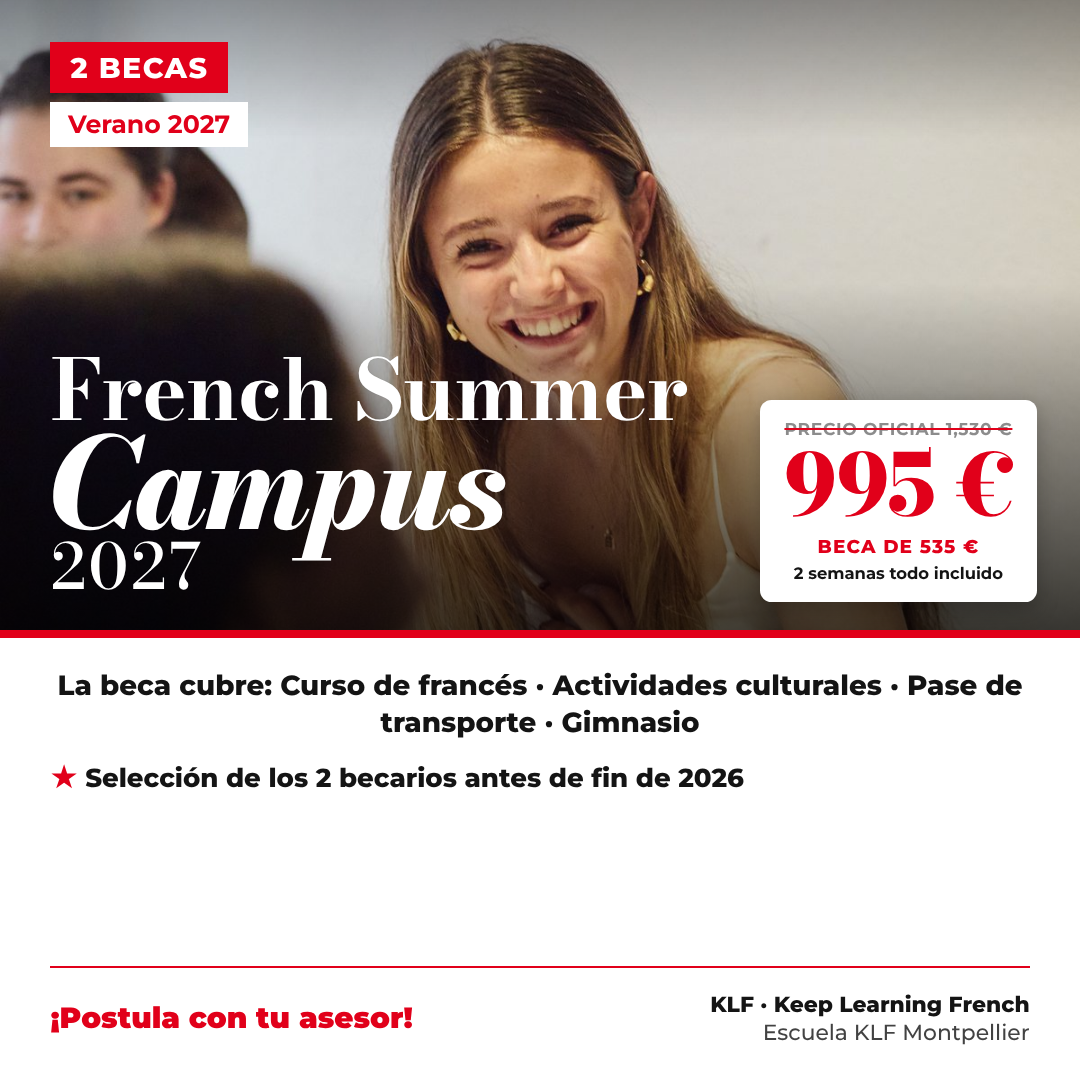
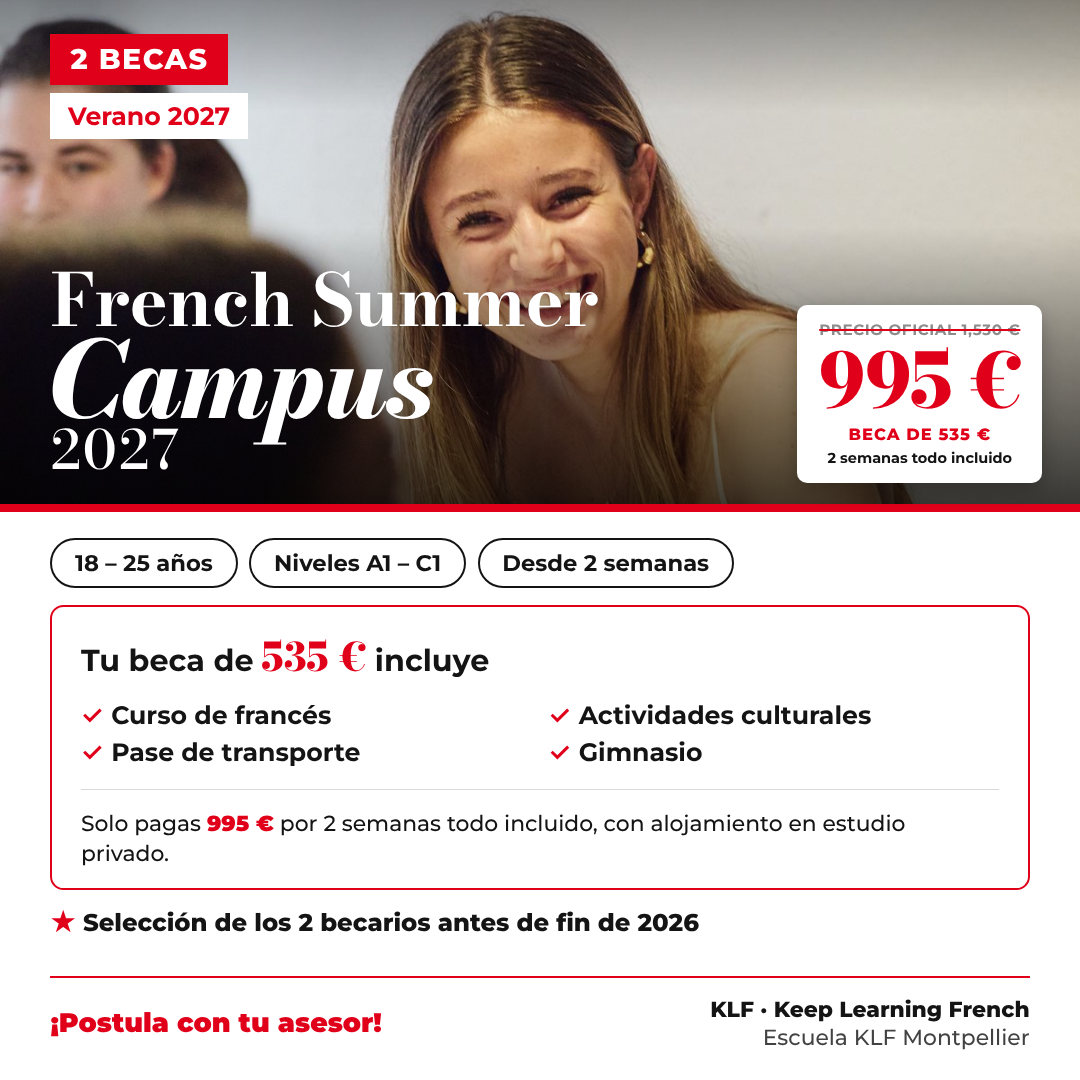
Kit French Summer Campus : photo aqueduc (foto-4) et format 1:1 enrichi
Claude-Session: https://claude.ai/code/session_01NRurtX7ks675ybybqDqttP

diff --git a/marketing/french-summer-campus-2027/styles.css b/marketing/french-summer-campus-2027/styles.css
@@ -199,3 +199,28 @@ body { font-family: "Montserrat", sans-serif; color: var(--ink); -webkit-font-sm
 
 /* Lisibilité : Bodoni en optique "texte" (pleins/déliés moins contrastés, déliés plus épais) */
 .title, .promo-new, .price-num, .card-h, .beca-head b, .gal-title { font-optical-sizing: none; font-variation-settings: "opsz" 11; }
+
+/* Carré 1:1 : photo plus courte, panneau d'infos complet */
+.square .ph { height: 61em; }
+.square .t1 { font-size: 8.6em; } .square .t2 { font-size: 12.6em; } .square .t3 { font-size: 6.4em; }
+.square .ph-bottom { bottom: 3.4em; }
+.square .tags { top: 4em; }
+.square .promo { top: auto; bottom: 3.4em; font-size: .75em; }
+.square .panel { gap: 2em; padding: 3em 6em 3.4em; }
+.square .chips span { font-size: 2.7em; }
+.square .items.compact { gap: 1.6em 3em; }
+.square .items.compact .ico-wrap { width: 6em; height: 6em; }
+.square .items.compact .ico { width: 3.1em; height: 3.1em; }
+.square .items.compact .it-txt b { font-size: 2.9em; }
+.square .price { padding: 1.8em 3.6em; }
+.square .price-num { font-size: 8.4em; }
+.square .price-label { font-size: 3em; }
+.square .beca-box { padding: 2.4em 3.4em; }
+.square .beca-head { font-size: 3.6em; }
+.square .beca-list { margin-top: 1.6em; gap: .8em 2em; }
+.square .beca-list li { font-size: 3em; }
+.square .beca-rest { font-size: 2.6em; }
+.square .selection { font-size: 2.9em; }
+.square .foot { padding-top: 2em; }
+.square .cta { font-size: 3.2em; }
+.square .dates { font-size: 2.7em; margin-top: -.4em; }
